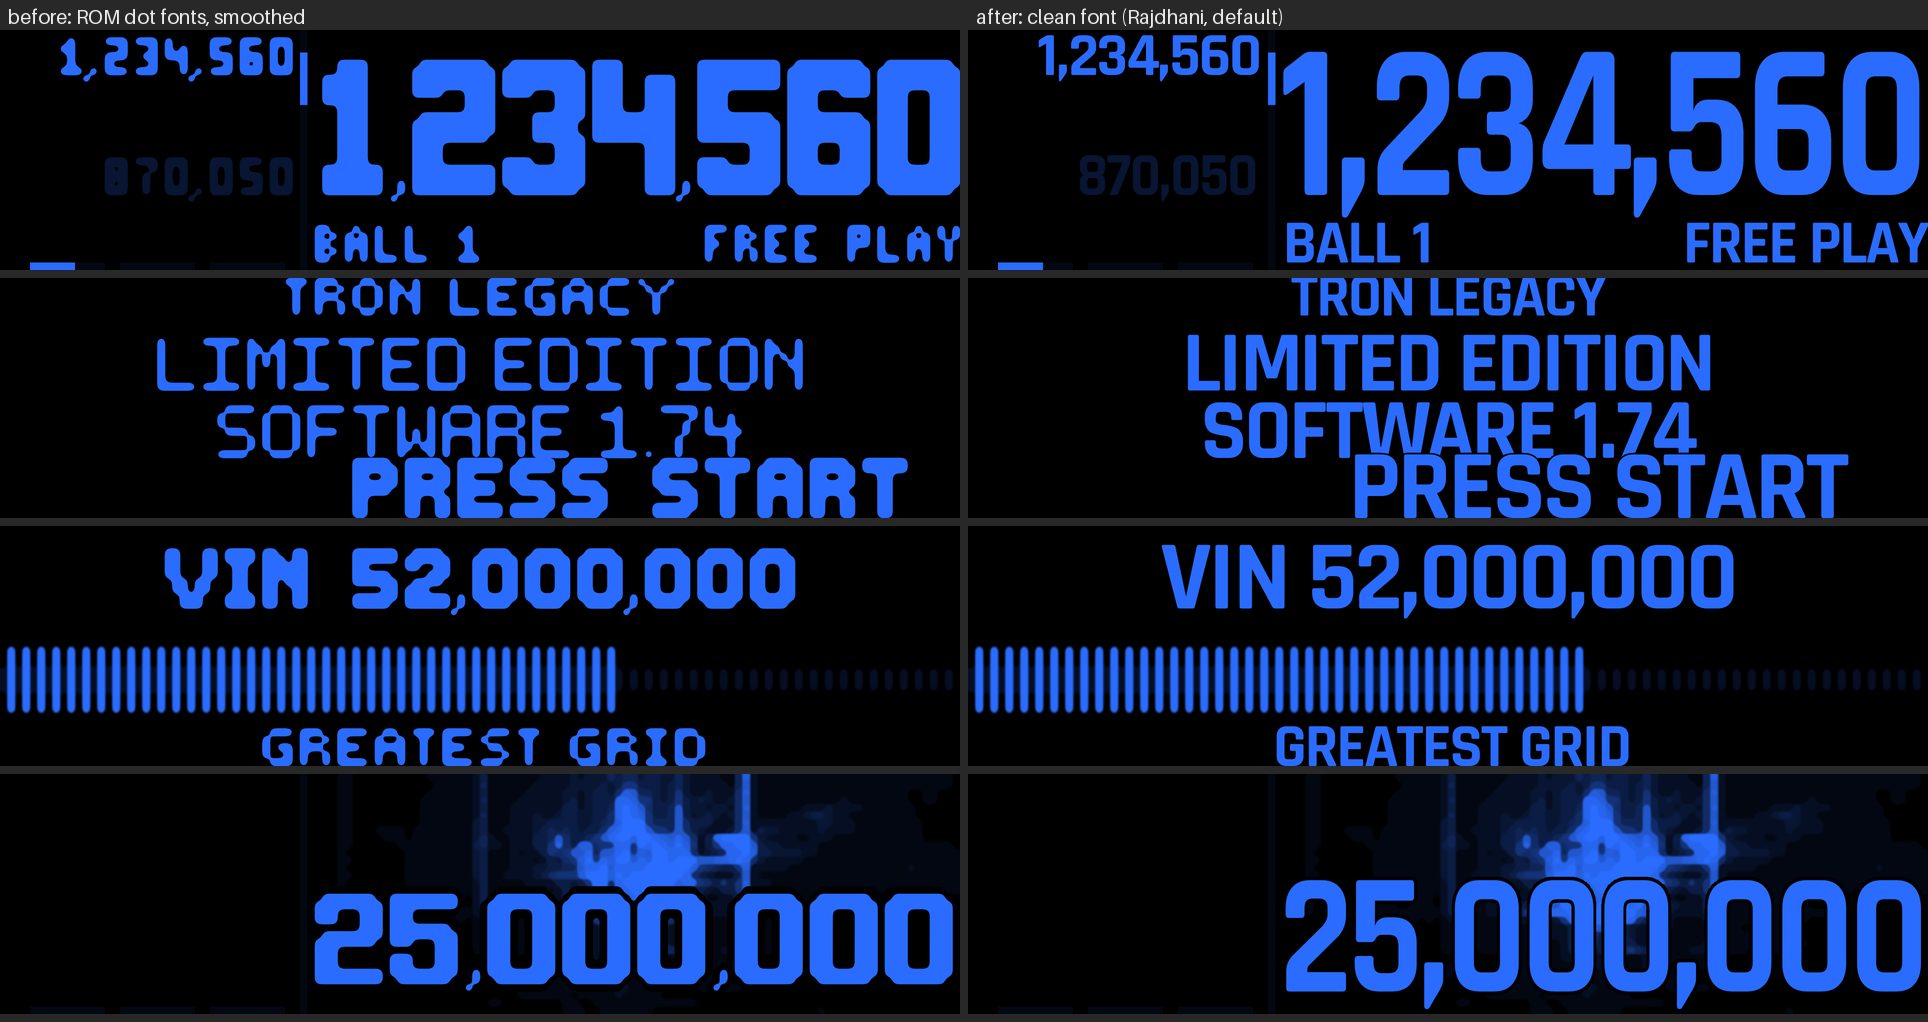
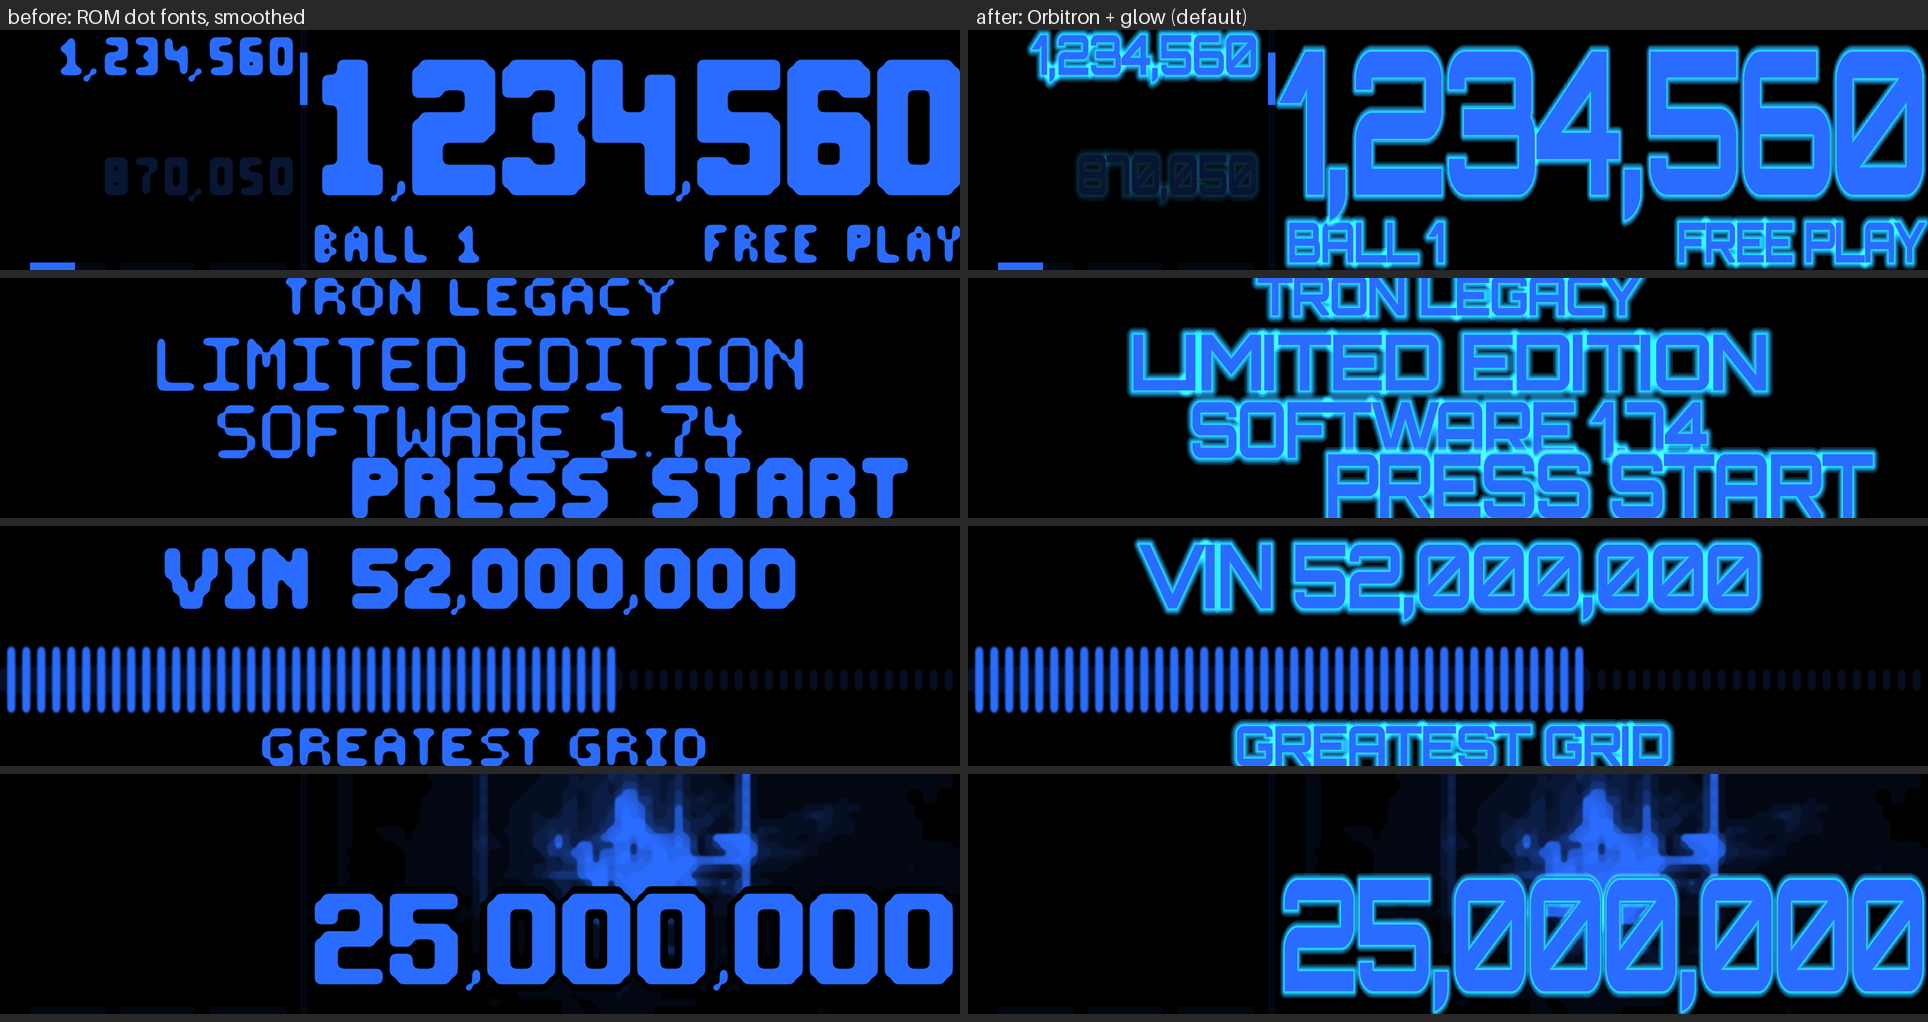
HD default: Orbitron with a soft glow (0.8)
Per Vincent: Orbitron with the glow becomes the HD default; --dmd-font and
--dmd-text-glow 0 still choose otherwise, classic is untouched.

Claude-Session: https://claude.ai/code/session_01VvyA2p1AptNbD1TeLpMF3K

Changed region(s): [[0.529, 0.0, 1.0, 0.6067], [0.6535, 0.8493, 1.0, 1.0], [0.6224, 0.6977, 0.8714, 0.7583]]

diff --git a/tests/test_dmd_hd.py b/tests/test_dmd_hd.py
@@ -313,7 +313,7 @@ class TestGodotModes(unittest.TestCase):
         self.assertEqual((1280, 320), score.size)
 
     def test_clean_fonts_keep_the_rom_layout(self):
-        """HD text in a clean font (default rajdhani) sits in the ROM's box: as tall as the ROM's capitals, centred
+        """HD text in a clean font (default orbitron) sits in the ROM's box: as tall as the ROM's capitals, centred
         where the ROM centres, never wider than the ROM's text (orbitron, wider, is squeezed); --dmd-font=rom
         and TRON_DMD_FONT=rom give the ROM's traced dots instead, a missing font file falls back to them."""
         from PIL import Image
@@ -323,7 +323,8 @@ class TestGodotModes(unittest.TestCase):
             return frame.point(lambda p: 255 if p > 90 else 0).getbbox(), frame
         boxes = {}
         for font in ["rajdhani", "orbitron", "godot", "rom"]:
-            b, frame = box(self.render(["--dmd=hd", "--dmd-font=" + font], ["--resolution", "1280x320"]))
+            b, frame = box(self.render(["--dmd=hd", "--dmd-text-glow=0", "--dmd-font=" + font],
+                                       ["--resolution", "1280x320"]))
             boxes[font] = b
             # "50,000", font 15: centred on x 84 (dots, 10 px each), 42 dots wide, capitals 10 dots high on row 26
             self.assertTrue(abs((b[0] + b[2]) / 2 - 84.5 * 10) < 15, (font, b))
@@ -331,10 +332,10 @@ class TestGodotModes(unittest.TestCase):
             self.assertTrue(abs(b[1] - 170) <= 8, (font, b))              # capitals' top: row 17
             self.assertGreater(len(frame.getcolors(256)), 20, font)      # smooth edges
         self.assertEqual(len({boxes[f] for f in boxes}), 4, boxes)          # four different looks
-        self.assertEqual(boxes["rajdhani"], box(self.render(["--dmd=hd"], ["--resolution", "1280x320"]))[0])
-        self.assertEqual(boxes["rom"], box(self.render(["--dmd=hd"], ["--resolution", "1280x320"],
+        self.assertEqual(boxes["orbitron"], box(self.render(["--dmd=hd", "--dmd-text-glow=0"], ["--resolution", "1280x320"]))[0])
+        self.assertEqual(boxes["rom"], box(self.render(["--dmd=hd", "--dmd-text-glow=0"], ["--resolution", "1280x320"],
                                                        env={"TRON_DMD_FONT": "rom"}))[0])
-        self.assertEqual(boxes["rom"], box(self.render(["--dmd=hd", "--dmd-font=/nowhere/x.ttf"],
+        self.assertEqual(boxes["rom"], box(self.render(["--dmd=hd", "--dmd-text-glow=0", "--dmd-font=/nowhere/x.ttf"],
                                                        ["--resolution", "1280x320"]))[0])
 
     def test_hd_default_is_single_colour(self):
@@ -353,16 +354,16 @@ class TestGodotModes(unittest.TestCase):
         self.assertFalse(os.path.exists(os.path.join(GAME, "media", "dmd_hd_color")))
 
     def test_text_style(self):
-        """HD text is in the text colour (default the Tron blue #2a6cff), without glow by default; the effect
-        frames, the letters and the score panel follow; --dmd-tint=orange is the original colour;
-        --dmd-text-glow adds a glow of the glow colour; --dmd-text-color / TRON_DMD_TEXT_GLOW change them."""
+        """HD text is in the text colour (default the Tron blue #2a6cff), with a glow of the glow colour by default
+        (--dmd-text-glow=0 takes it away); the effect frames, the letters and the score panel follow;
+        --dmd-tint=orange is the original colour; --dmd-text-color / TRON_DMD_TEXT_GLOW change them."""
         from PIL import Image
 
         def strokes(path):
             img = Image.open(path).convert("RGB")
             px = img.load()
             return img, px
-        out = self.render(["--dmd=hd"], ["--resolution", "1280x320"])
+        out = self.render(["--dmd=hd", "--dmd-text-glow=0"], ["--resolution", "1280x320"])
         img, px = strokes(os.path.join(out, "deff_025", "frame_00000.png"))
         core = [px[x, y] for x in range(img.width) for y in range(img.height) if px[x, y][2] > 200]
         self.assertGreater(len(core), 2000)
@@ -386,8 +387,8 @@ class TestGodotModes(unittest.TestCase):
         art, ap = strokes(os.path.join(out, "deff_046", "frame_00002.png"))
         lit = [ap[x, y] for x in range(0, art.width, 3) for y in range(0, art.height, 3) if sum(ap[x, y]) > 200]
         self.assertTrue(lit and all(r > b for r, g, b in lit))
-        # the glow: blue-cyan light around the strokes, in the dots between the digits' black cells and beyond
-        out = self.render(["--dmd=hd", "--dmd-text-glow=0.8"], ["--resolution", "1280x320"])
+        # the default glow: blue-cyan light around the strokes
+        out = self.render(["--dmd=hd"], ["--resolution", "1280x320"])
         img, px = strokes(os.path.join(out, "deff_025", "frame_00000.png"))
         halo = [px[x, box[1] - 8] for x in range(box[0], box[2])]
         self.assertTrue(any(b > 30 and b > r for r, g, b in halo), halo[::40])

diff --git a/scripts/run.py b/scripts/run.py
@@ -12,9 +12,9 @@
     python scripts/run.py --dmd classic            # the original 128x32 DMD dots (default: hd, smooth text and art)
     python scripts/run.py --dmd-size 1920x480      # DMD window size (hd scales to any size; resize it freely)
     python scripts/run.py --dmd-dots 2             # hd with a dot-matrix look (2 dots per DMD dot, 1 = 128x32)
-    python scripts/run.py --dmd-font orbitron      # hd text font: rajdhani (default), orbitron, godot, rom (ROM dots) or a .ttf
+    python scripts/run.py --dmd-font orbitron      # hd text font: orbitron (default), rajdhani, godot, rom (ROM dots) or a .ttf
     python scripts/run.py --dmd-tint orange        # hd in the original orange (default: Tron blue)
-    python scripts/run.py --dmd-text-color "#2a6cff" --dmd-text-glow 0.8   # hd text colour and glow (default 0 = none)
+    python scripts/run.py --dmd-text-color "#2a6cff" --dmd-text-glow 0.8   # hd text colour and glow (default 0.8; 0 = none)
 
 Godot's log goes to game/logs/godot.log. MPF runs in this terminal; quitting it (Ctrl+C or Esc in its text UI)
 stops Godot and MPF Monitor too. On Linux without a display, Godot runs under Xvfb (xvfb-run).
@@ -164,7 +164,7 @@ def dmd_args(gargs, dmd=None, dots=None, size=None, text_color=None, text_glow=N
     """Godot args for the DMD mode (game/tools/dmd_mode.gd): --dmd=hd|classic, --dmd-dots=N, the window
     size (Godot's --resolution WxH), the HD colours (--dmd-tint=blue|orange, --dmd-text-color=#RRGGBB,
     --dmd-text-glow=X) and the HD text font (--dmd-font=rajdhani|orbitron|godot|rom|FILE). None leaves the
-    choice to TRON_DMD... / the project settings (hd, blue, no glow, rajdhani)."""
+    choice to TRON_DMD... / the project settings (hd, blue, glow 0.8, orbitron)."""
     if dmd:
         gargs = user_arg(gargs, "--dmd=" + dmd)
     if font:
@@ -337,10 +337,10 @@ def main(argv=None):
     p.add_argument("--dmd-text-color", metavar="#RRGGBB",
                    help="hd only: text colour (default the tint's: #2a6cff). Also TRON_DMD_TEXT_COLOR")
     p.add_argument("--dmd-text-glow", type=float, metavar="X",
-                   help="hd only: strength of the glow around the text (default 0 = none; 0.8 is soft). Also "
+                   help="hd only: strength of the glow around the text (default 0.8, soft; 0 = none). Also "
                         "TRON_DMD_TEXT_GLOW")
     p.add_argument("--dmd-font", metavar="NAME",
-                   help="hd only: font of the DMD text: rajdhani (default, clean), orbitron (clean, Tron style), "
+                   help="hd only: font of the DMD text: orbitron (default, Tron style), rajdhani (clean, narrower), "
                         "godot (Godot's default font), rom (the ROM's own dot fonts, smoothed) or a .ttf/.otf "
                         "file. Clean fonts keep the ROM's placement. Also TRON_DMD_FONT")
     p.add_argument("godot_args", nargs="*", help="extra Godot arguments, after --")

diff --git a/docs/rom_differences.md b/docs/rom_differences.md
@@ -22,9 +22,9 @@ departs from the ROM, for example a new mode.
 | Area | ROM | This game | Back to the ROM |
 |---|---|---|---|
 | DMD look | 128x32 orange dots | HD by default: vector fonts and upscaled animations, drawn at any window size | `run.py --dmd classic` (exact ROM output; always used on the P-ROC and for render checks) |
-| DMD text font (HD) | the ROM's dot fonts | a clean TrueType font (Rajdhani by default; Orbitron or Godot's default font selectable) in the ROM's place: same lines, alignment and capital height, never wider than the ROM's text (squeezed when wider), black outline instead of the ROM's black cell, shaded big digits drawn flat at their top level | `--dmd-font rom` (the ROM's dots, smoothed), or `--dmd classic` |
+| DMD text font (HD) | the ROM's dot fonts | a clean TrueType font (Orbitron by default; Rajdhani or Godot's default font selectable) in the ROM's place: same lines, alignment and capital height, never wider than the ROM's text (squeezed when wider), black outline instead of the ROM's black cell, shaded big digits drawn flat at their top level | `--dmd-font rom` (the ROM's dots, smoothed), or `--dmd classic` |
 | DMD colour | orange | Tron blue, text and animations | `--dmd-tint orange` |
-| Text glow | none | none by default; optional glow | default (`--dmd-text-glow X` adds one) |
+| Text glow | none | a soft glow around HD text by default (0.8) | `--dmd-text-glow 0` |
 | Pricing on the desktop | coins (factory settings) | free play with virtual hardware | `run.py --no-free-play` |
 | Hardware | SAM CPU board | MPF on virtual hardware, a P-ROC, or the Visual Pinball X table | `--hw proc` drives the original driver boards |
 | Machine | LE 1.74 ROM, LE hardware only | Pro hardware by default (the Pro 1.74 IO assignments, `assets/docs/PRO_VS_LE.md`) running the LE 1.74 rules; LE selectable. The Pro rules are not ported, so on a Pro: the TRON standups use the LE drop-target code with no reset coil; End of Line multiball and the LE-only adjustments stay; the Pro's light cycle ramp extra ball adjustments are missing. Pro coil behaviour follows the Pro decompile: ramp flashers on 19 / 25, lower flashers 22 / 23 fired with them (left/right pairing inferred) | `--machine le` (`hw_proc_le`, `hw_virtual_le`; `hw_vpx` is the LE). docs/hardware.md, "Pro or LE" |

diff --git a/docs/development.md b/docs/development.md
@@ -148,9 +148,9 @@ pixels (what `scripts/render_diff.py` checks against the ROM captures). To go ba
 | `--dmd-dots N` (or `TRON_DMD_DOTS=N`) | HD with a dot-matrix look: N round dots per DMD dot (1 = the 128x32 grid; 2 looks good from 1280 px up; 0 = off, the default) |
 | `--dmd-size WxH` | the window size, for example `1920x480` (default 1024x256; HD scales to any size, classic in whole steps) |
 | `--dmd-tint blue\|orange` (or `TRON_DMD_TINT`, `tron/dmd/tint`) | HD DMD colour, text and animations: Tron blue (default) or the original orange |
-| `--dmd-font NAME` (or `TRON_DMD_FONT`, `tron/dmd/font`) | HD text font: `rajdhani` (default), `orbitron`, `godot` (Godot's default font), a `.ttf`/`.otf` file, or `rom` (the ROM's dot fonts traced to smooth outlines). Clean fonts keep the ROM layout: same lines and alignment, the ROM's capital height, squeezed to the ROM's text width when wider |
+| `--dmd-font NAME` (or `TRON_DMD_FONT`, `tron/dmd/font`) | HD text font: `orbitron` (default), `rajdhani`, `godot` (Godot's default font), a `.ttf`/`.otf` file, or `rom` (the ROM's dot fonts traced to smooth outlines). Clean fonts keep the ROM layout: same lines and alignment, the ROM's capital height, squeezed to the ROM's text width when wider |
 | `--dmd-text-color "#RRGGBB"` (or `TRON_DMD_TEXT_COLOR`, `tron/dmd/text_color`) | HD text colour (default the tint's, `#2a6cff`): ROM text, score display, service menu, ZUSE/TRON letters, attract pages |
-| `--dmd-text-glow X` (or `TRON_DMD_TEXT_GLOW`, `tron/dmd/text_glow`) | strength of the glow around HD text (default 0 = none; 0.8 is a soft glow); its colour: `TRON_DMD_TEXT_GLOW_COLOR` or `tron/dmd/text_glow_color` (default the tint's, `#22b8ff`) |
+| `--dmd-text-glow X` (or `TRON_DMD_TEXT_GLOW`, `tron/dmd/text_glow`) | strength of the glow around HD text (default 0.8, a soft glow; 0 = none); its colour: `TRON_DMD_TEXT_GLOW_COLOR` or `tron/dmd/text_glow_color` (default the tint's, `#22b8ff`) |
 
 `--hw proc` is always classic: the P-ROC drives the machine's own 128x32 DMD. Godot reads the same choice
 from its user args (`godot --path game -- --dmd=classic --dmd-dots=2`); `game/tools/dmd_mode.gd` applies it.

diff --git a/docs/handover/dmd_hd_upscaling.md b/docs/handover/dmd_hd_upscaling.md
@@ -47,8 +47,8 @@ filter; vector outlines replaced them because they stay sharp at any size.
 ### Clean fonts (default)
 
 The traced ROM fonts keep the ROM's 5x7-style letter shapes, which look soft and blobby on a big LCD. By
-default HD draws the text in an ordinary font instead (`game/fonts_ttf/`, SIL OFL: Rajdhani Bold, Orbitron
-at weight 700; or Godot's own default font, or any `.ttf`/`.otf`), chosen with `--dmd-font` /
+default HD draws the text in an ordinary font instead (`game/fonts_ttf/`, SIL OFL: Orbitron at weight 700, the default,
+or Rajdhani Bold; or Godot's own default font, or any `.ttf`/`.otf`), chosen with `--dmd-font` /
 `TRON_DMD_FONT` / `tron/dmd/font`; `rom` keeps the traced fonts. `rom_text_hd.gd` keeps the ROM's layout:
 the callers pass the ROM's text width and alignment flags, the letters are scaled so the font's capital
 height (measured from its "H") equals the ROM font's `cap`, the line is aligned in the ROM's box and squeezed

diff --git a/README.md b/README.md
@@ -102,9 +102,9 @@ any layout.
   in the environment does the same for every run.
 - `--dmd-size 1920x480`: the DMD window's size (HD scales to any size). `--dmd-dots 2`: an HD dot-matrix look.
 - `--dmd-tint orange`: the HD DMD in the original orange instead of Tron blue.
-- `--dmd-font NAME`: the HD text font: `rajdhani` (default, clean), `orbitron` (Tron style), `godot` (Godot's
+- `--dmd-font NAME`: the HD text font: `orbitron` (default, Tron style), `rajdhani` (clean, narrower), `godot` (Godot's
   default font), a `.ttf`/`.otf` file, or `rom` (the ROM's own dot fonts, smoothed).
-- `--dmd-text-color "#RRGGBB"`, `--dmd-text-glow X`: the HD text's colour and glow (none by default).
+- `--dmd-text-color "#RRGGBB"`, `--dmd-text-glow X`: the HD text's colour and glow (0.8 by default; `--dmd-text-glow 0` turns it off).
 
 [docs/development.md](docs/development.md#running) has the details of the HD DMD.
 
